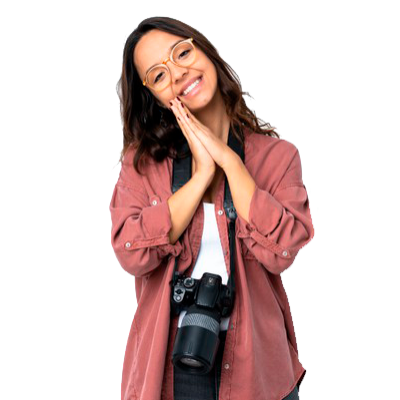
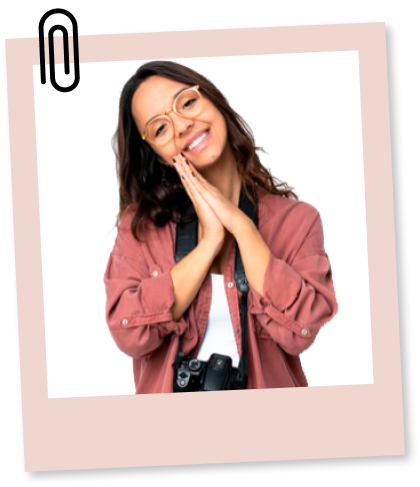
modique la seccion sobreMi

diff --git a/css/style.css b/css/style.css
@@ -491,16 +491,21 @@ button:focus {
   font-style: italic; }
 
 .cristina__foto {
-  align-self: flex-end; }
-  @media (max-width: 991px) {
-    .cristina__foto img {
-      height: 500px; } }
-  @media (min-width: 768px) and (max-width: 991px) {
-    .cristina__foto img {
-      height: 350px; } }
-  @media (max-width: 767px) {
-    .cristina__foto img {
-      height: 0; } }
+  align-self: center; }
+  .cristina__foto img {
+    transform: rotate(20des); }
+    @media (min-width: 12001px) {
+      .cristina__foto img {
+        height: 500px; } }
+    @media (min-width: 992px) and (max-width: 1200px) {
+      .cristina__foto img {
+        height: 350px; } }
+    @media (min-width: 768px) and (max-width: 991px) {
+      .cristina__foto img {
+        height: 250px; } }
+    @media (max-width: 767px) {
+      .cristina__foto img {
+        height: 0; } }
 
 /* historia */
 .historia {
@@ -508,17 +513,9 @@ button:focus {
   flex-direction: row;
   justify-content: space-around;
   align-items: center;
-  margin: 150px auto;
-  width: 90vw; }
-  @media (min-width: 992px) {
-    .historia {
-      flex-wrap: nowrap; } }
-  @media (min-width: 768px) and (max-width: 991px) {
-    .historia {
-      flex-wrap: wrap; } }
-  @media (max-width: 767px) {
-    .historia {
-      flex-wrap: wrap; } }
+  margin: 100px auto;
+  width: 100vw;
+  flex-wrap: wrap; }
 
 .historia__fotos {
   display: grid;
@@ -547,7 +544,8 @@ button:focus {
 
 .historia2 {
   grid-area: historia2;
-  border-radius: 5%; }
+  border-radius: 5%;
+  margin-bottom: 50px; }
   @media (min-width: 992px) {
     .historia2 {
       width: 600px;
@@ -580,7 +578,6 @@ button:focus {
   justify-content: space-around;
   align-items: center;
   background-color: #E5DDD3;
-  margin: 150px 0;
   padding: 30px 0; }
   @media (max-width: 767px) {
     .logros {
@@ -607,7 +604,7 @@ button:focus {
   flex-direction: column;
   justify-content: space-around;
   align-content: center;
-  margin: 150px 0; }
+  margin: 100px 0; }
 
 .hobbies__titulo {
   align-self: center;

diff --git a/scss/_sobreMi.scss b/scss/_sobreMi.scss
@@ -46,13 +46,17 @@
 }
   
 .cristina__foto{
-  align-self: flex-end;
+  align-self: center;
   img{
-    @media (max-width: 991px){
-    height: 500px;
+    transform: rotate(20des);
+    @media (min-width: 12001px){
+      height: 500px;
+      }
+    @media (min-width: 992px) and (max-width: 1200px){
+      height: 350px;
     }
     @media (min-width: 768px) and (max-width: 991px){
-      height: 350px;
+      height: 250px;
     }
     @media (max-width: 767px){
       height: 0;
@@ -66,17 +70,9 @@
   flex-direction: row;
   justify-content: space-around;
   align-items: center;
-  margin: 150px auto;
-  width: 90vw;
-  @media (min-width: 992px) {
-    flex-wrap: nowrap;
-  }
-  @media (min-width: 768px) and (max-width: 991px) {
-    flex-wrap: wrap;
-  }
-  @media (max-width: 767px) {
-    flex-wrap: wrap;
-  }
+  margin: 100px auto;
+  width: 100vw;
+  flex-wrap: wrap;
 }
 
 .historia__fotos{
@@ -111,6 +107,7 @@
 .historia2{
   grid-area: historia2;
   border-radius: 5%;
+  margin-bottom: 50px;
   @media (min-width: 992px) {
     width: 600px;
     height: 400px;
@@ -144,11 +141,9 @@
 /* logros */
 .logros{
   display: flex;
-  
   justify-content: space-around;
   align-items: center;
   background-color: #E5DDD3;
-  margin: 150px 0;
   padding: 30px 0;
   @media (max-width: 767px){
     flex-direction: column;
@@ -178,7 +173,7 @@
   flex-direction: column;
   justify-content: space-around;
   align-content: center;
-  margin: 150px 0;
+  margin: 100px 0;
 }
 
 .hobbies__titulo{
